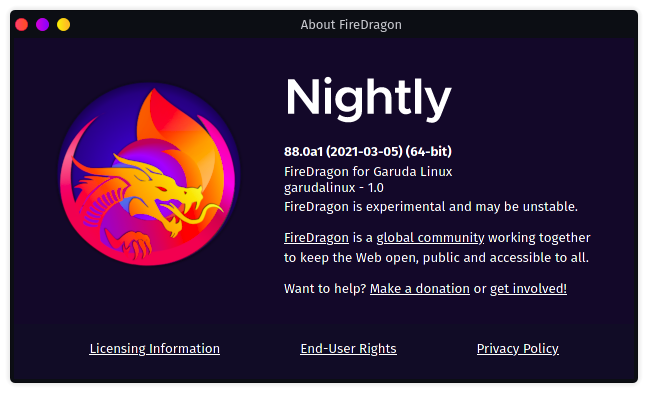
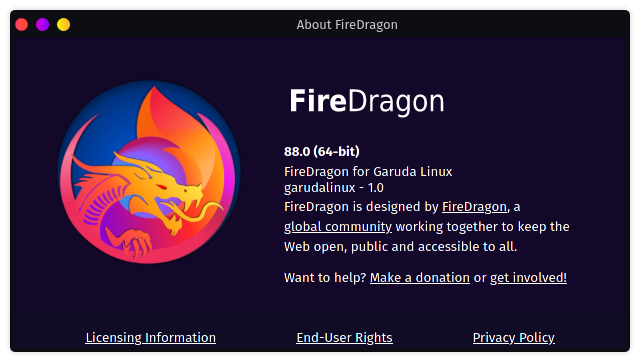
Add credits, new feature & update about ss

diff --git a/README.md b/README.md
@@ -17,9 +17,10 @@ Differences from LibreWolf:
 - Sweet theme added
 - Custom, dr460nized branding :dragon:
 - Will keep in sync with both Librewolfs & Plasmafox changes
+- Support for own settings using ~/.firedragon/firedragon.overrides.cfg - use this to override default settings shipped in /usr/lib/firedragon/firedragon.cfg 
 - Presets for both profile-sync-daemon (which Garuda ships by default) & Firejail available
 - Builds available at [Chaotic-AUR](https://chaotic.cx)
-- Icons & artwork by [SGS](https://gitlab.com/sgse)
+- Icons & artwork by [SGS](https://gitlab.com/sgse) & [zoeronen](https://gitlab.com/zoeronen)
 - Tabliss setup from the screenshot can be imported from tabliss.json
 
 Differences of the Nightly build:
